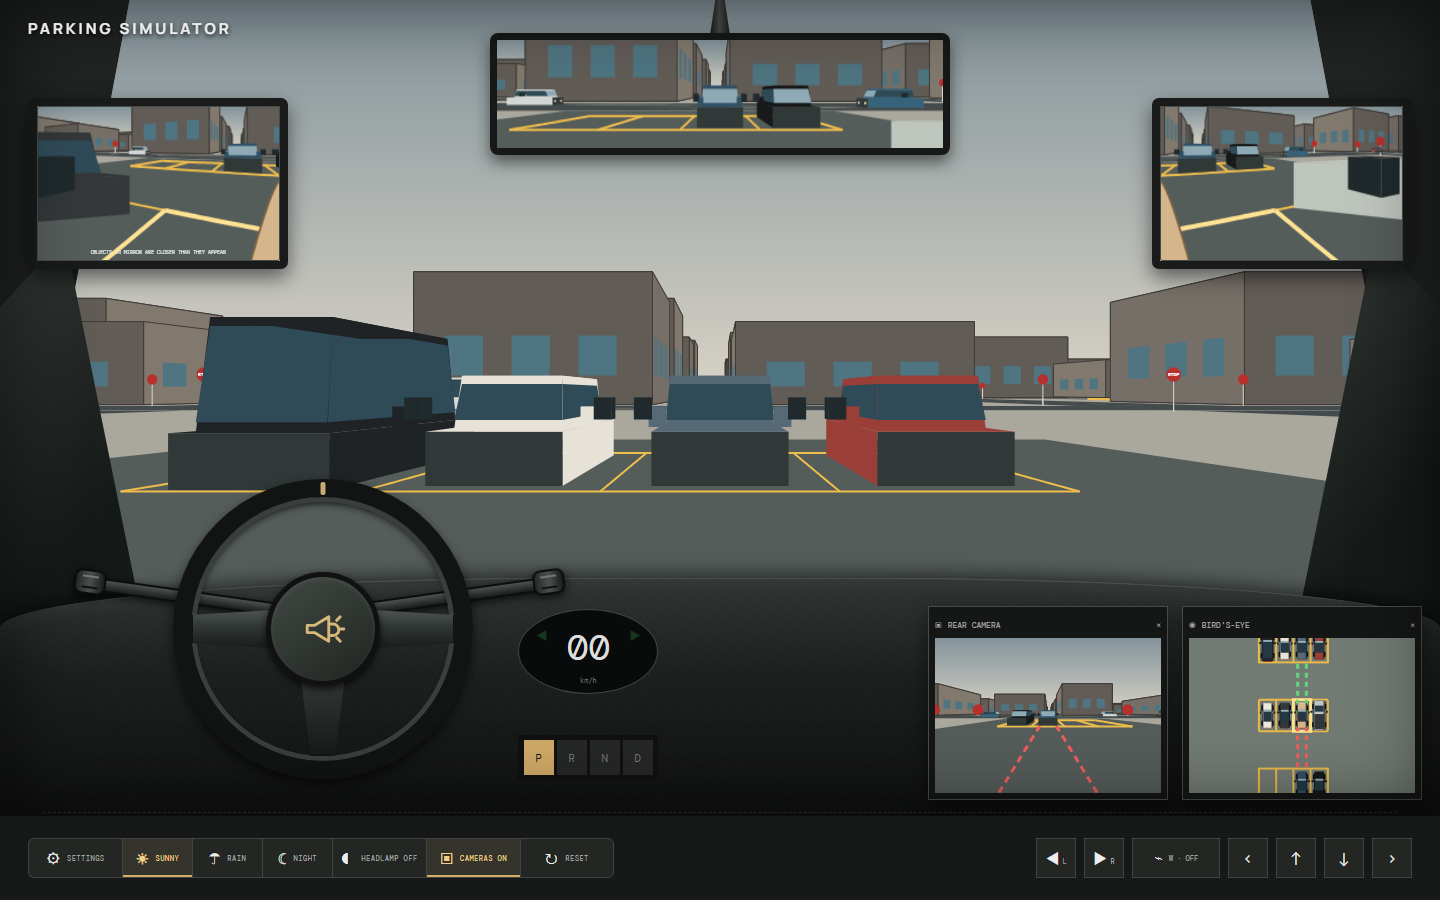
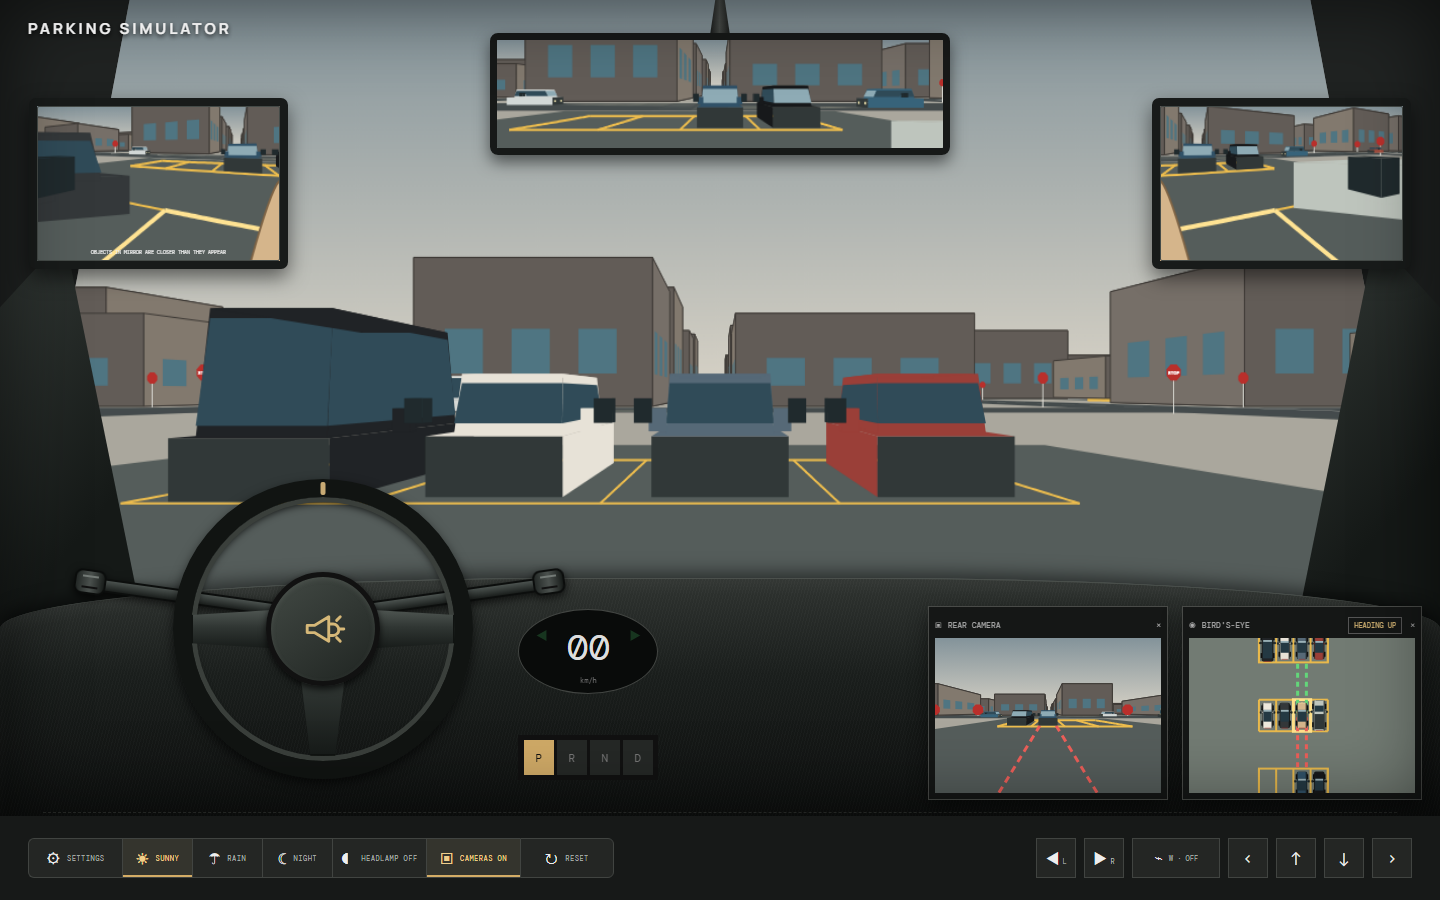
Add heading-up bird's-eye camera

diff --git a/src/main.js b/src/main.js
@@ -8,7 +8,7 @@ document.querySelector('#root').innerHTML = `<main>
     <div class="rearMirrorStem" aria-hidden="true"></div><div class="rearMirror"><canvas data-view="rearMirror"></canvas></div>
     <div class="mirror right"><canvas data-view="rightMirror"></canvas></div>
     <div class="windshield"><canvas data-view="front"></canvas><canvas class="weatherGlass" aria-hidden="true"></canvas><div class="wipers off" aria-hidden="true"><i class="left"></i><i class="right"></i></div><div class="impact" hidden>OBSTACLE — VEHICLE STOPPED</div></div>
-    <aside class="miniViews"><div class="monitor" id="camera"><div class="monitorTitle">${icon('camera')} REAR CAMERA <button class="hide">×</button></div><div class="feed"><canvas data-view="rearCamera"></canvas></div></div><div class="monitor" id="bird"><div class="monitorTitle">${icon('eye')} BIRD'S-EYE <button class="hide">×</button></div><div class="feed bird"><canvas data-view="bird"></canvas></div></div><div class="restore"></div></aside>
+    <aside class="miniViews"><div class="monitor" id="camera"><div class="monitorTitle">${icon('camera')} REAR CAMERA <button class="hide">×</button></div><div class="feed"><canvas data-view="rearCamera"></canvas></div></div><div class="monitor" id="bird"><div class="monitorTitle">${icon('eye')} BIRD'S-EYE <button class="birdMode" aria-label="Switch to north-up bird's-eye view" aria-pressed="true">HEADING UP</button><button class="hide">×</button></div><div class="feed bird"><canvas data-view="bird"></canvas></div></div><div class="restore"></div></aside>
     <div class="dash"><div class="turnStalk" aria-label="Turn-signal stalk"><i></i></div><div class="wiperStalk" aria-label="Windshield-wiper stalk"><i></i></div><div class="wheel"><div class="wheelSpoke leftSpoke"></div><div class="wheelSpoke rightSpoke"></div><div class="wheelSpoke lowerSpoke"></div><button class="horn" aria-label="Honk horn"><svg viewBox="0 0 64 64" aria-hidden="true"><path d="M10 27h10l20-12v34L20 37H10zM40 25h6a8 8 0 0 1 0 16h-6"/><path class="sound" d="M51 20l5-5M54 32h7M51 44l5 5"/></svg></button></div><div class="cluster"><i class="turnIndicator left">◀</i><i class="turnIndicator right">▶</i><strong>00</strong><span>km/h</span></div><div class="gear">${['P', 'R', 'N', 'D'].map(g => `<button class="${g === 'P' ? 'active' : ''}">${g}</button>`).join('')}</div></div>
   </section>
   <footer><div class="utilityControls" role="group" aria-label="Settings, weather, headlamps, cameras, and reset"><button id="settings" class="footerSettings" aria-label="Open settings">${icon('settings')} <small>SETTINGS</small></button><button data-weather="0" aria-label="Sunny weather">☀ <small>SUNNY</small></button><button data-weather="1" aria-label="Rainy weather">☂ <small>RAIN</small></button><button data-weather="2" aria-label="Night weather">☾ <small>NIGHT</small></button><button class="headlampToggle" aria-label="Turn headlamps on" aria-pressed="false">◖ <small>HEADLAMP OFF</small></button><button class="camerasToggle active" aria-label="Disable both cameras" aria-pressed="true">▣ <small>CAMERAS ON</small></button><button class="reset">${icon('reset')} <small>RESET</small></button></div><div class="controls"><button data-signal="left" aria-label="Left turn signal">◀ <small>L</small></button><button data-signal="right" aria-label="Right turn signal">▶ <small>R</small></button><button class="wiperControl" aria-label="Cycle windshield wipers">⌁ <small>W · OFF</small></button><button data-key="ArrowLeft">${icon('left')}</button><div class="keygroup"><button data-key="ArrowUp" aria-label="Drive forward">↑</button></div><div class="keygroup"><button data-key="ArrowDown" aria-label="Reverse">↓</button></div><button data-key="ArrowRight">${icon('right')}</button></div></footer>
@@ -16,7 +16,7 @@ document.querySelector('#root').innerHTML = `<main>
 </main>`;
 
 // The vehicle pose below is the single source of truth for every rendered view.
-const state = { x: 0, z: 8, heading: 0, speed: 0, steer: 0, gear: 'P', fisheye: 16, fov: 110, eyeHeight: 1.25, impactUntil: 0, signal: null, signalOn: false, signalNextTick: 0, wiperMode: 0, weather: 0, headlights: false };
+const state = { x: 0, z: 8, heading: 0, speed: 0, steer: 0, gear: 'P', fisheye: 16, fov: 110, eyeHeight: 1.25, impactUntil: 0, signal: null, signalOn: false, signalNextTick: 0, wiperMode: 0, weather: 0, headlights: false, birdHeadingUp: true };
 const keys = {};
 const CAR = { width: 1.82, length: 4.45, height: 1.48, wheelbase: 2.7, maxSteer: 32 * Math.PI / 180, forwardAcceleration: 3.2, reverseAcceleration: 2.2, brakeDeceleration: 8 };
 // The old scene ended after 66 m. This six-and-a-half kilometre city is 100× longer.
@@ -596,6 +596,10 @@ function drawBird(canvas) {
   const ctx = canvas.getContext('2d'), w = canvas.clientWidth, h = canvas.clientHeight, dpr = devicePixelRatio || 1;
   if (canvas.width !== w * dpr || canvas.height !== h * dpr) { canvas.width = w * dpr; canvas.height = h * dpr; }
   ctx.setTransform(dpr, 0, 0, dpr, 0, 0); ctx.fillStyle = '#727b73'; ctx.fillRect(0, 0, w, h);
+  // Turn the world around the centered learner car. This cancels the car's
+  // heading on screen, keeping its nose pointed toward the top of the panel.
+  ctx.save();
+  if (state.birdHeadingUp) { ctx.translate(w / 2, h / 2); ctx.rotate(-state.heading); ctx.translate(-w / 2, -h / 2); }
   const scale = Math.min(w / 34, h / 27), world = p => ({ x: w / 2 + (p.x - state.x) * scale, y: h / 2 + (p.z - state.z) * scale });
   ctx.strokeStyle = '#e9b94c'; ctx.lineWidth = 2;
   PARKING_LOTS.forEach(lot => lot.rows.forEach(z => {
@@ -647,6 +651,7 @@ function drawBird(canvas) {
   [-1, 1].forEach(direction => { ctx.strokeStyle = direction > 0 ? '#63d67a' : '#ed5f59'; ctx.setLineDash([5, 4]); projectedTracks(direction).forEach(path => { ctx.beginPath(); path.forEach((p, i) => { const q = world(p); i ? ctx.lineTo(q.x, q.y) : ctx.moveTo(q.x, q.y); }); ctx.stroke(); }); }); ctx.setLineDash([]);
   visibleCars().forEach(car => { const p = world(car); drawTopCar(ctx, p.x, p.y, scale, car.heading, car.color, false, car.steer || 0, car.type, traffic.includes(car)); });
   drawTopCar(ctx, w / 2, h / 2, scale, state.heading, '#d5b58b', true, state.steer, 'car', true);
+  ctx.restore();
 }
 
 function renderDash() {
@@ -788,6 +793,13 @@ function wiperMotorClick(mode) {
   osc.connect(filter); filter.connect(gain); gain.connect(hornAudio.destination); osc.start(now); osc.stop(now + .15);
 }
 const cameraPanels = [...document.querySelectorAll('.monitor')], cameraToggle = document.querySelector('.camerasToggle'), restore = document.querySelector('.restore');
+const birdMode = document.querySelector('.birdMode');
+birdMode.onclick = () => {
+  state.birdHeadingUp = !state.birdHeadingUp;
+  birdMode.textContent = state.birdHeadingUp ? 'HEADING UP' : 'NORTH UP';
+  birdMode.setAttribute('aria-pressed', state.birdHeadingUp);
+  birdMode.setAttribute('aria-label', `Switch to ${state.birdHeadingUp ? 'north-up' : 'heading-up'} bird's-eye view`);
+};
 function renderCameraToggle() {
   const allVisible = cameraPanels.every(panel => !panel.hidden), allHidden = cameraPanels.every(panel => panel.hidden);
   cameraToggle.classList.toggle('active', allVisible); cameraToggle.setAttribute('aria-pressed', allVisible);
@@ -924,10 +936,8 @@ function updateTraffic(dt) {
     const crash = blockers.some(other => polygonsOverlap(vehicleCorners(next), other === state ? vehicleCorners(other, .4, CAR.length * 6) : vehicleCorners(other, .18))) || mapObstacles(next.z).some(object => polygonsOverlap(vehicleCorners(next), obstaclePolygon(object)));
     if (crash) car.speed = Math.max(0, car.speed - 8 * dt);
     else Object.assign(car, { x: next.x, z: next.z, heading: next.heading });
-    car.stoppedFor = car.speed < .15 ? (car.stoppedFor || 0) + dt : 0;
-    // A traffic vehicle that remains boxed in is recycled to its moving route
-    // instead of becoming a permanent non-parking street obstacle.
-    if (car.stoppedFor > 3) { Object.assign(car, trafficStarts[index], { movingTraffic: true, stoppedFor: 0, speed: cruise }); }
+    // Keep blocked traffic in the world. Resetting a car after a few seconds
+    // made it visibly disappear from cameras while the driver was watching it.
     // Recycle both north/south and east/west traffic at the city boundary.
     if (Math.abs(car.z) > CITY.length / 2) car.z = -Math.sign(car.z) * (CITY.length / 2 - 10);
     if (Math.abs(car.x) > CITY.length / 2) car.x = -Math.sign(car.x) * (CITY.length / 2 - 10);

diff --git a/src/style.css b/src/style.css
@@ -39,6 +39,7 @@
 #bird{left:auto;right:18px;top:auto;bottom:2%}
 @media(min-width:801px) and (max-width:1100px){#camera{left:auto;right:226px}#bird{left:auto;right:12px}.gear{left:29%}}
 @media(max-width:800px){.gear{left:24%;right:auto;top:58%}#camera{left:auto;right:142px;top:auto;bottom:2%}#bird{left:auto;right:8px;top:auto;bottom:2%}}
+.monitorTitle .birdMode{margin-left:auto;border:1px solid #555;padding:3px 5px;color:#d5b574;font:7px DM Mono}.monitorTitle .birdMode+.hide{margin-left:2px}
 
 /* Upright A-pillars and a higher mirror line preserve the driver's road view. */
 .windshield{clip-path:polygon(9% 0,91% 0,91% 84%,9% 84%)}

diff --git a/README.md b/README.md
@@ -26,8 +26,8 @@ braking early to leave three car lengths between its bumper and your vehicle.
 At intersections, the expanded traffic population can continue straight or choose
 a left or right turn, then settles into the correct right-hand lane under Canadian
 drive-on-right rules. Non-parking traffic remains part of the live movement system;
-if a traffic car stays boxed in for three seconds, it is restarted on its moving route
-instead of becoming a permanent stopped street obstacle.
+when a traffic car is boxed in, it stays stopped in place and resumes naturally once
+its route clears instead of disappearing and restarting elsewhere.
 The cross street directly ahead of the learner's starting parking bay also has
 eastbound and westbound live traffic, making movement visible immediately.
 The windshield renders at 30 FPS while mirrors and camera panels refresh at
@@ -72,7 +72,10 @@ acceleration. The transmission changes direction only after the car stops.
 
 Watch the side mirrors and rear-view mirror as you maneuver. The rear camera
 includes parking guides, while the bird's-eye camera helps you judge the car's
-position between the lines. Drag the mirrors and camera panels to move them;
+position between the lines. Its default **Heading Up** mode fixes the car in the
+center with its nose pointing upward while the map moves and rotates around it.
+Use the camera's mode button to switch to the original **North Up** view, where
+the map keeps a fixed orientation. Drag the mirrors and camera panels to move them;
 camera panels can also be hidden and restored.
 Use the combined camera button to disable or restore the rear and bird's-eye
 panels together.
